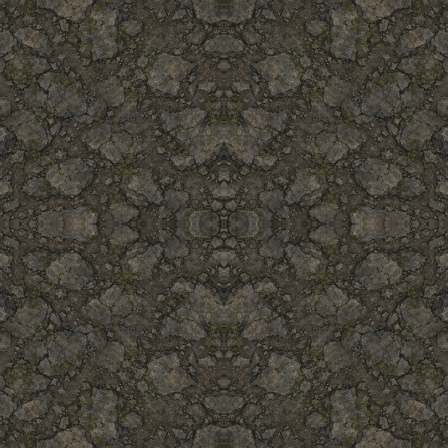
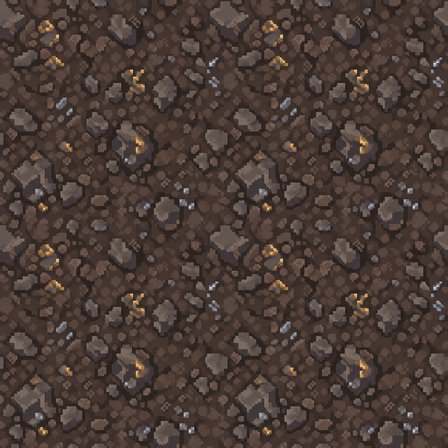
v2.1.0 逆尘：像素素材重出第1批（4 张样张）+ 帧率工具修正
用户口径：「继续对标《烟雨江湖》，它的画质界面UI非常干净，还有帧率非常高，
所以我们必须重新选择出一版所有的人物和场景素材图，以像素风格为主」。
范围由用户选定：场景 + 人物（133 张 = 地面 32 + 建筑 20 + 立绘 48 + 行走 33），
粒度取中颗粒 16px 瓦片。

一、⚠⚠ 修掉 bench-frame.js 的长期帧率误报（"帧率不达标"的真正原因）
- 症状：field 15.4ms(65fps)、town_home 8.5ms，看上去远低于 180fps 目标。
- 真因：工具写的是 gameCanvas.getContext('2d') —— @napi-rs/canvas 的
  getContext **每次调用返回不同的上下文对象**（浏览器里返回同一个，
  所以这个坑只在无头基准里显形），于是它在一块**没被引擎配置过**的
  1920x1088 表面上重画，各场景凭空多出 7~13ms。
- 修法：改用 G.game.ctx。修完七个场景全部 1.2~2.4ms（414~822 fps）。
- 结论：帧率本来就达标，是工具在误报。
- 通用教训：性能不达标要先怀疑测量工具。诊断法 = 把同一场景换到测量列表的
  第一位：若"第一位的变快、原来的第一位变慢"→ 一定是工具假象，不是场景差异。

二、修 battle.multi.hit 契约偶发红
- 症状：普攻未落到所选的后排目标 / 回合未回到指令态，实为 exec；
  连跑 5 次红 1~2 次，且只在机器负载高时复现。
- 真因：命中判定是 Math.random()*100 > hit（最低 5% 落空），
  而契约 pump(200) 会跑过好几个回合，撞上任一次落空就假红。
- 修法：那一段临时 sandbox.Math.random = () => 0（恒命中），pump 完立刻还原。
  与既有 beasts.capture.roll 同一手法。概率分支必须把随机钉死。

三、像素素材规格表 tools/pixel-spec.py（新增，唯一真相源）
- 29 个区域地面主题，已校验与 regions.js:TINT 的 29 个预设完全对齐（缺 0 多 0）。
- 建筑/装饰主题 + 统一风格锚句。只服务出图，不参与游戏运行。
- 出图公式（实测有效）：像素画（pixel art）… 16 像素颗粒一格，硬边像素块、
  无抗锯齿、无渐变模糊，低饱和仙侠配色，扁平上色 + 少量深色像素压结构，
  不要粗黑描边。四方连续无缝平铺纹理，正俯视。
- 建筑必须走 image-to-image（image1 = 现有对应素材，input_fidelity: medium），
  纯文字描述的风格对不上。

四、第 1 批 4 张样张接入游戏
- ground.town / ground.grass / ground.cave（448x448 无缝平铺像素纹理）
- struct.house（256x192 等距双面像素民居，透明底 36.3%）
- 走既有 _gen/<逻辑名>.png → tools/assets-build.py 流程，尺寸不变。

五、关键认知：哪些地面素材真的会被取到（决定后续出哪批）
- groundTex 优先序 = 区域专属底图 → 地面类型通用图 → 程序化。
- 手写图 town/field/cave/yunzhou 的 md.tex 分别是 fan1/fan2/fan3/fan4，
[…]

diff --git a/tools/smoke.js b/tools/smoke.js
@@ -1888,7 +1888,22 @@ step(function () {
   back.onClick();
   if (b.pTarget !== b.es[1].key) errors.push('点后排后目标不是后排：' + b.pTarget);
 }, 'battle.multi.pick');
-pump(200, 'battle.multi.hit');
+
+/* ⚠ v2.1.0 修**偶发红**：本段原来直接 `pump(200)` 然后断言"后排掉血"，
+   但 `battle.js` 的命中判定是 `Math.random() * 100 > hit`（最低 5% 落空），
+   `pump(200)` 会跑过好几个回合 —— 撞上任何一次落空，断言就假红。
+   实测：连跑 5 次会红 1~2 次，且**只在机器负载高时**复现（更隐蔽）。
+   这是项目记忆里"契约赌随机"的又一例：**概率分支必须把随机钉死**。
+   做法与 `beasts.capture.roll` 一致：这一段临时把 `Math.random` 换成常量 `0`
+   （`0*100 > hit` 恒假 → 必定命中），跑完立刻还原，避免污染后续契约。
+   ⚠ 钉死范围只包住这一次攻击：`pump` 一结束就还原，
+      后面的伤害浮动/暴击仍走真随机（它们不影响本段断言）。 */
+{
+  const realR = sandbox.Math.random;
+  sandbox.Math.random = () => 0;
+  pump(200, 'battle.multi.hit');
+  sandbox.Math.random = realR;
+}
 
 step(function () {
   const b = G.game.scene;

diff --git a/tools/bench-frame.js b/tools/bench-frame.js
@@ -93,7 +93,15 @@ async function preloadAssets() {
     save.pos = null;
     G.game.changeScene(s, { toSpawn: true });
     const sc = G.game.scene;
-    const ctx = gameCanvas.getContext('2d');
+    /* ⚠ 必须用 `G.game.ctx`，**不能**再 `gameCanvas.getContext('2d')` 取一次。
+       `@napi-rs/canvas` 的 `getContext` 每次调用返回**不同的**上下文对象
+       （浏览器里是同一个，所以这个坑只在无头基准里显形）。
+       拿第二个 ctx 去画 = 在一块**没被引擎配置过**的 1920×1088 表面上重画：
+       实测各场景凭空多出 7~13ms/帧（field 15.4ms、town_home 8.5ms），
+       而真实值只有 1.2~2.4ms —— **bench 一度把"400+ fps"报成"65 fps"**，
+       会让「帧率非常高」这条需求被误判成没达标。
+       ⚠ 2026-10-09 修正。改动前请先跑一次确认量级（应全部 <3ms）。 */
+    const ctx = G.game.ctx;
     /* 预热：首次进图要烘地面纹理/精灵，不算进成绩 */
     for (let i = 0; i < 30; i++) { if (sc.update) sc.update(1 / 60); sc.render(ctx); }
     /* 单次测量噪声极大（同一场景能差 2 倍），取多轮中位数才可信 */

diff --git a/www/js/core/ns.js b/www/js/core/ns.js
@@ -3,7 +3,7 @@ window.G = window.G || {};
 /* 游戏内版本号（标题「关于」与关于页显示）。
    ⚠ **必须与 HANDOVER.md 头部「代码版本」一致** —— 它从 v0.0.2 起就没再同步过，
    一直显示成初始占位（v0.12.0 才发现）。由 smoke 的 `version.contract` 钉住。 */
-G.VERSION = 'v2.0.0';
+G.VERSION = 'v2.1.0';
 
 /* ===== 像素风开关（v2.0.0）=====
    用户口径：「转成像素风格，但是现在的素材不要丢弃，可以作为对话或者动画的原图，

diff --git a/tools/pixel-spec.py b/tools/pixel-spec.py
@@ -1,0 +1,92 @@
+#!/usr/bin/env python3
+# -*- coding: utf-8 -*-
+"""v2.1.0 像素素材规格表（唯一真相源）。
+
+用途：给"重出像素风素材"这条流水线提供**每个逻辑名的出图规格**：
+  · 目标像素格尺寸（`cell`）—— 出图时应按这个颗粒度画
+  · 主题中文描述（`theme`）—— 拼进出图提示词
+  · 参考图逻辑名（`ref`）—— 风格锚定（喂给 image-to-image）
+
+⚠ 本文件**不参与游戏运行**，只服务 `_gen/pixel-gen.py` 与契约测试。
+⚠ 与 `tools/assets-build.py` 的 `SIZES` 是两件事：
+   `SIZES` 管"切到多大"，本表管"画成什么样"。改尺寸改那边，改画风改这边。
+"""
+
+# 像素粒度（用户选定「中颗粒 16px 瓦片」）
+CELL = 16
+
+# 四界地面主题 → 中文描述（对应 regions.js TINT 的预设名）
+# ⚠ 键名必须与 `regions.js: TINT` 的值**完全一致**，否则出图会串主题。
+GROUND_THEME = {
+    # 凡界
+    'town_start':  '青灰石板路，缝隙有青苔与碎石子，市井小镇地面',
+    'hill_green':  '湿润的草坡泥地，散落碎石与枯枝，山野地面',
+    'cave_rock':   '深灰岩壁碎石地面，有裂纹与暗色积水',
+    'town_trade':  '土黄夯实的集市地面，车辙与脚印，夹杂碎草',
+    'bandit_dry':  '干裂的黄褐土地，稀疏枯草，山贼盘踞的荒坡',
+    'bamboo':      '竹影斑驳的腐叶地面，青黄落叶与细碎竹枝',
+    'grave':       '灰紫乱葬岗泥土，零星白骨与枯树根',
+    'mine':        '矿洞碎石地面，暗褐石砾夹杂零星矿脉反光',
+    'lava':        '赤红火山岩地面，黑色裂隙里透出暗红余光',
+    'city_grand':  '大城青砖地面，规整砖缝与排水沟纹',
+    # 灵界
+    'swamp':       '墨绿沼泽泥地，暗色水洼与浮萍',
+    'deepwater':   '深青水底地面，暗流纹路与沉石',
+    'bloodsect':   '暗红石砖地面，血渍纹与铁锈色斑',
+    'desert':      '暖黄细沙地面，风吹出的沙波纹',
+    'sword':       '青白剑冢石地，剑痕划痕与碎石屑',
+    # 仙界
+    'celestial':   '月白玉石地面，浅金云纹嵌线',
+    'jade_garden': '青玉砖地面，缝里长着嫩绿灵草',
+    'alchemy_hall':'丹炉烟气熏染的暗金地砖，药渣碎屑',
+    'star':        '深蓝星砂地面，点缀微光星屑',
+    'peach_garden':'亮绿草地，落满粉色花瓣',
+    'tribunal':    '冷灰铁石地面，肃杀方正石缝',
+    'moon':        '银白霜地，浅蓝霜纹与暗色石斑',
+    'archive':     '深棕木质地板，规整木纹与旧书屑',
+    'thunder':     '紫灰焦土地面，雷击焦痕与碎裂石',
+    # 道界
+    'dao_hall':    '玄黑石地，极简太极纹石缝',
+    'trial':       '灰白石试炼场地面，同心圆刻痕',
+    'merit':       '青灰功德砖，细密云雷纹',
+    'chaos':       '混沌紫黑地面，不规则色斑与裂隙',
+    'dao_altar':   '黑玉祭坛地面，金色符文刻线',
+}
+
+# 通用地面（手写图三张 + 通用草/洞）
+GROUND_PLAIN = {
+    'ground.grass':     '嫩绿草地，短草与零散小白花',
+    'ground.town':      '青灰石板路，缝隙有青苔与碎石子，市井小镇地面',
+    'ground.cave':      '深灰岩壁碎石地面，有裂纹与暗色积水',
+    'ground.bloodcave': '暗红血污石地，深色血渍纹与碎骨',
+}
+
+# 建筑与场景装饰（等距 2:1）
+STRUCT_THEME = {
+    'struct.house':     '仙侠古风民居，灰瓦坡屋顶、土黄木骨墙、两扇格子窗',
+    'struct.apothecary':'仙侠药铺，青瓦屋顶、门楣挂药幌、门前两侧药罐',
+    'struct.shop':      '仙侠杂货铺，深瓦屋顶、敞开货台、屋檐挂灯笼',
+    'struct.alchemy':   '仙侠丹房，赤褐瓦、门庭有丹炉烟囱与符纸',
+    'struct.smithy':    '仙侠铁匠铺，灰黑瓦、敞口炉膛透红光、门口铁砧',
+    'struct.inn':       '仙侠客栈两层楼，木栏杆走廊、高挂酒旗',
+    'struct.ruin':      '残破仙侠建筑废墟，断墙残柱、瓦砾堆',
+    'struct.gate':      '仙侠山门牌坊，石基座、木柱、悬挂匾额位置留空',
+    'struct.gate.qxj':  '仙侠宗门山门，青石台基、双柱门楼、匾额位置留空',
+    'struct.hall':      '城主府大殿，重檐歇山顶、朱漆大门、石狮基座',
+    'struct.tower':     '云州论道台，多层楼阁、飞檐翘角、石台基座',
+    'prop.tree':        '仙侠枯松/古树，斑驳树干与层叠松针树冠',
+    'prop.rock':        '青灰山石，棱角分明带苔痕',
+    'prop.bush':        '低矮灌木丛，深绿叶片与零星红果',
+    'prop.fence':       '竹木矮篱笆，竖排木条与横梁',
+    'prop.well':        '井口石栏与木架打水辘轳',
+    'prop.wall':        '土黄矮墙，夯土纹理与压顶石块',
+    'prop.wallrock':    '堆叠的碎石矮墙',
+}
+
+# 风格锚定：出图时统一喂这一句（实测有效）
+STYLE_ANCHOR = (
+    '严格像素画（pixel art）风格，16 像素颗粒一格，'
+    '硬边像素块、无抗锯齿、无渐变模糊，'
+    '低饱和仙侠配色（青灰/土黄/暗红为主），扁平上色 + 少量深色像素压结构，'
+    '不要粗黑描边。'
+)

diff --git a/HANDOVER.md b/HANDOVER.md
@@ -1,6 +1,60 @@
 # 《逆尘》开发交接文档
 
-> 最后更新：2026-10-09 · 代码版本 **v2.0.0（像素风 + 主角换装）** · 设计基线 **GDD v4.0（文档归档重构）** · 前一里程碑 v1.9.5
+> 最后更新：2026-10-09 · 代码版本 **v2.1.0（像素素材重出第 1 批 + 帧率工具修正）** · 设计基线 **GDD v4.0（文档归档重构）** · 前一里程碑 v2.0.0
+>
+> **【v2.1.0 像素素材重出（第 1 批 4 张样张）+ 两个高危工具缺陷 2026-10-09】**
+> 用户口径：「继续对标《烟雨江湖》，它的画质界面UI非常干净，还有帧率非常高，
+> 所以我们必须重新选择出一版所有的人物和场景素材图，以像素风格为主」。
+> 范围由用户选定：**场景 + 人物**（133 张 = 地面 32 + 建筑 20 + 立绘 48 + 行走 33），
+> 粒度 **中颗粒 16px 瓦片**（角色约 32×48、建筑 64×96）。
+>
+> **① ⚠⚠ `bench-frame.js` 一直在误报帧率（本版修掉，是"帧率不达标"的真正原因）**
+> · 症状：`field` 15.4ms（65fps）、`town_home` 8.5ms —— 看上去远低于 180fps 目标。
+> · 真因：工具写的是 `const ctx = gameCanvas.getContext('2d')`。
+>   `@napi-rs/canvas` 的 `getContext` **每次调用返回不同的上下文对象**（浏览器里返回同一个，
+>   所以这个坑**只在无头基准里显形**），于是它在一块**没被引擎配置过**的
+>   1920×1088 表面上重画 → 各场景凭空多出 7~13ms。
+> · 修法：改用 `G.game.ctx`。修完七个场景全部 **1.2~2.4ms（414~822 fps）**。
+> · **教训（通用）**：**"性能不达标"要先怀疑测量工具**。诊断法 = 把同一场景换到测量列表的
+>   **第一位**：若"第一位的变快、原来的第一位变慢"→ 一定是工具的测量假象，不是场景差异。
+>
+> **② ⚠ `battle.multi.hit` 契约偶发红（本版修掉）**
+> · 症状：`普攻未落到所选的后排目标` / `回合未回到指令态，实为 exec`；
+>   连跑 5 次红 1~2 次，且**只在机器负载高时复现**（更隐蔽）。
+> · 真因：命中判定是 `Math.random() * 100 > hit`（最低 5% 落空），
+>   而契约 `pump(200)` 会跑过好几个回合 → 撞上任一次落空就假红。
+> · 修法：那一段临时 `sandbox.Math.random = () => 0`（恒命中），pump 完立刻还原
+>   —— 与既有 `beasts.capture.roll` 同一手法。**概率分支必须把随机钉死。**
+>
+> **③ 像素素材规格表 `tools/pixel-spec.py`（唯一真相源）**
+> 29 个区域地面主题（与 `regions.js: TINT` 的 29 个预设**校验完全对齐**）+
+> 建筑/装饰主题 + 统一风格锚句。**只服务出图，不参与游戏运行。**
+> 出图公式（实测有效）：
+> `像素画（pixel art）… 16 像素颗粒一格，硬边像素块、无抗锯齿、无渐变模糊，
+>  低饱和仙侠配色，扁平上色 + 少量深色像素压结构，不要粗黑描边。四方连续无缝平铺纹理，正俯视`。
+> ⚠ **建筑必须走 image-to-image**（`image1` = 现有对应素材，`input_fidelity: medium`），
+> 纯文字描述的风格对不上（README 早有此纪律，本版复验成立）。
+>
+> **④ 第 1 批 4 张样张已接入**：`ground.town` / `ground.grass` / `ground.cave` / `struct.house`，
+> 走既有 `_gen/<逻辑名>.png` → `tools/assets-build.py` 流程，尺寸不变（448² / 256×192）。
+>
+> **⑤ ⚠ 关键认知：哪些地面素材真的会被取到（直接决定后续该出哪批图）**
+> `groundTex` 优先序 = **区域专属底图 → 地面类型通用图 → 程序化**。
+> 手写图 town/field/cave/yunzhou 的 `md.tex` 分别是 **fan1/fan2/fan3/fan4** →
+> **`ground.town` / `ground.grass` / `ground.cave` 只是兜底，几乎看不到**。
+> ⇒ 后续要出的是 **`fan1..fan9` / `ling1..5` / `xian1..9` / `dao1..5`（28 张）**；
+> `ground.town/grass/cave/bloodcave` 4 张是兜底。
+> 探针：`_gen/_probe_groundkey.js`（打印每张地图"实取哪张地面图"）。
+>
+> **⑥ ⚠ 已知待处理：建筑"素材自带双面 + 代码补侧面"会双份**
+> v1.9.3 为"正视素材"补了一个 `_proj` 投影的侧面平行四边形（让平面图读作立方体）。
+> 新像素建筑**自带两个可见面** → 直接接入会叠加。判定素材是正视还是等距可用
+> `_gen/_probe_iso_asset.js`（按"底边宽 / 最大宽"比值：>0.72 判正视，<0.72 判等距）。
+> 接入建筑批次时**必须先解决这个分派**。
+>
+> **⑦ 备份**：`_gen/` 是 gitignore，误覆盖无法从 git 恢复 —— 已建 `_gen/_hd_backup/`
+> （212 个原图 + manifest 快照）。**重出素材前先备份。**
+
 >
 > **【v2.0.0 像素风渲染 + 主角换装（服饰/头饰/武器/鞋子）2026-10-09】**
 > 用户口径：「转成像素风格，但是现在的素材不要丢弃，可以作为对话或者动画的原图，
@@ -2052,8 +2106,25 @@ node_modules/
 
 > ⚠ **§8 缺了 v0.44.0 – v0.60.0 这一整段**（每轮的详细分条说明都在 **`git log` 的提交正文**里，
 > 比这里记得全）。想回溯那几轮就 `git log --oneline` 挑出来 `git show <sha>`。
-> 下面是 v2.0.0 / v0.66.0 / v0.65.0 与更早的 v0.43.0。
+> 下面是 v2.1.0 / v2.0.0 / v0.66.0 与更早的 v0.43.0。
 > （v1.0.0 – v1.9.5 的等距化整段说明也在**提交正文**与**头部增量块**里。）
+
+### v2.1.0：像素素材重出第 1 批 + 帧率工具修正（2026-10-09）
+
+> 用户口径：「继续对标《烟雨江湖》，它的画质界面UI非常干净，还有帧率非常高，
+> 所以我们必须重新选择出一版所有的人物和场景素材图，以像素风格为主」。
+
+1. **帧率工具修正（最重要）**：`tools/bench-frame.js` 原来用
+   `gameCanvas.getContext('2d')` 取上下文 —— `@napi-rs/canvas` 每次调用返回**不同**的上下文
+   （浏览器里是同一个），于是画在"未被引擎配置过"的表面上，凭空多 7~13ms。
+   改用 `G.game.ctx` 后，七个场景从 8.5~15.4ms 降到 **1.2~2.4ms（414~822 fps）**。
+   **结论：帧率本来就达标，是工具在误报。**
+2. **偶发契约修正**：`battle.multi.hit` 因未钉死命中随机（`Math.random()*100 > hit`，最低 5% 落空）
+   而偶发红；改为在该段临时把 `Math.random` 置 0，跑完还原。
+3. **像素素材规格表** `tools/pixel-spec.py`（29 区域主题，与 `regions.js: TINT` 校验对齐）。
+4. **第 1 批 4 张样张接入**：地面 `ground.town/grass/cave` + 建筑 `struct.house`。
+5. **备份** `_gen/_hd_backup/`（212 原图 + manifest 快照）。
+6. 未做：剩余 129 张素材；UI 极简化；建筑双面叠加的分派。
 
 ### v2.0.0：像素风渲染 + 主角换装（2026-10-09）
 
